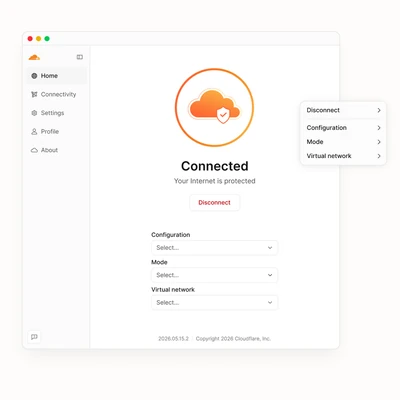
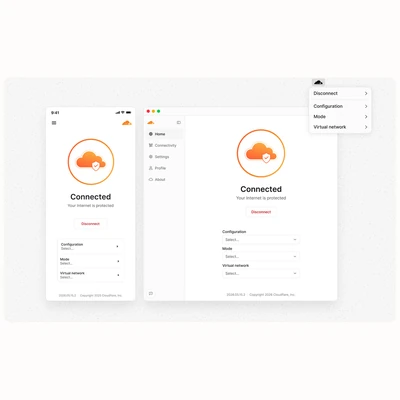
Polish CF1 case cover on mobile and enlarge WARP carousel phones.
Use the full Figma GA cover on mobile instead of a square crop, and bump WARP final-carousel phone size with a 16px gap on small screens.

diff --git a/projects/cloudflare-one-client.html b/projects/cloudflare-one-client.html
@@ -47,20 +47,8 @@
 <p>This project was a complete redesign of a legacy application and I joined when engineering was already 80% through an MVP, with just a few months to get the product to GA. As the sole product designer, I had to move quickly across product strategy, research, design, and implementation—while the new Kumo design system was still evolving.</p>
 <p>Working with this team was incredibly rewarding. Together, we hit our launch target on an aggressive timeline while completely elevating the core product experience.</p>
                 <figure class="case-figure">
-                    <div class="case-media">
-                        <picture>
-                            <source
-                                media="(max-width: 700px)"
-                                type="image/webp"
-                                srcset="../assets/projects/cover-cf1-square-400w.webp?v=cover-473-7732-20260912 400w, ../assets/projects/cover-cf1-square-800w.webp?v=cover-473-7732-20260912 800w, ../assets/projects/cover-cf1-square-1028w.webp?v=cover-473-7732-20260912 1028w"
-                                sizes="100vw"
-                            >
-                            <source
-                                media="(max-width: 700px)"
-                                srcset="../assets/projects/cover-cf1-square.png?v=cover-473-7732-20260912"
-                            >
-                            <img src="../assets/projects/cf1/cover.png?v=cover-473-7732-20260912" alt="Cloudflare One Client cover" width="1920" height="1200" loading="lazy" decoding="async">
-                        </picture>
+                    <div class="case-media case-media--cf1-cover">
+                        <img src="../assets/projects/cf1/cover.png?v=figma-168-938-20260914" alt="Cloudflare One Client cover" width="1920" height="1200" loading="lazy" decoding="async">
                     </div>
                     <figcaption class="case-caption">GA Release</figcaption>
                 </figure>

diff --git a/css/styles.css b/css/styles.css
@@ -3297,6 +3297,16 @@ svg.dog-ig-body {
     aspect-ratio: 1;
   }
 
+  /* CF1 GA cover — keep full 960×600 composition on mobile (no square crop) */
+  .project-page .case-header .case-media.case-media--cf1-cover:not(.case-media--video) {
+    aspect-ratio: 960 / 600;
+  }
+
+  .project-page .case-header .case-media.case-media--cf1-cover img {
+    object-fit: cover;
+    object-position: center;
+  }
+
   .project-page .case-header .case-media.case-media--warp:not(.case-media--video):not(.case-carousel--warp) {
     aspect-ratio: 964 / 1051;
   }
@@ -3304,14 +3314,41 @@ svg.dog-ig-body {
   /* Interactive Final Design carousel — scale with content column */
   .project-page .case-header .case-media.case-carousel--warp {
     aspect-ratio: auto;
+    margin-bottom: 0;
   }
 
   .project-page .case-carousel--warp .case-carousel__stage {
     border-radius: 0;
+    aspect-ratio: auto;
+    height: auto;
+    overflow-x: hidden;
+    overflow-y: visible;
+  }
+
+  .project-page .case-carousel--warp .case-carousel__track {
+    height: auto;
+    gap: 16px;
+  }
+
+  /* Phones 69% larger than desktop proportion (30% then +30% again); keep 203.2∶440 aspect */
+  .project-page .case-carousel--warp .case-carousel__slide {
+    width: calc(203.2 * 1.69 / 960 * 100%);
+    height: auto;
+    aspect-ratio: 203.2 / 440;
   }
 
   .project-page .case-carousel--warp .case-carousel__slide img {
     border-radius: 8px;
+    height: 100%;
+  }
+
+  .project-page .case-carousel--warp .case-carousel__actions {
+    position: relative;
+    top: auto;
+    left: auto;
+    width: 100%;
+    margin-top: 16px;
+    justify-content: flex-end;
   }
 
   .project-page .case-carousel--warp .case-carousel__btn {

diff --git a/projects/warp.html b/projects/warp.html
@@ -24,7 +24,7 @@
     <link rel="preconnect" href="https://fonts.gstatic.com" crossorigin>
     <link href="https://fonts.googleapis.com/css2?family=Capriola&family=Google+Sans+Flex:ital,opsz,wght@0,6..144,400;0,6..144,500;0,6..144,600;0,6..144,700;1,6..144,400&family=Reddit+Mono:wght@400;500&display=swap" rel="stylesheet">
     <link rel="stylesheet" href="../css/tokens.css?v=titles-medium-20260911">
-    <link rel="stylesheet" href="../css/styles.css?v=warp-carousel-noshadow-20260912">
+    <link rel="stylesheet" href="../css/styles.css?v=warp-carousel-mobile-169-20260914">
     <title>WARP — Tc</title>
 </head>
 <body>
